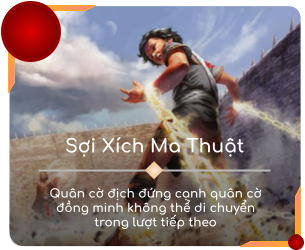
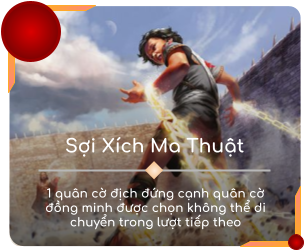
Update

Changed region(s): [[0.1475, 0.728, 0.8852, 0.924]]

diff --git a/CMC/card.py b/CMC/card.py
@@ -4,6 +4,7 @@ import pygame
 import CMC.effect as ef
 import CMC.cell as cell
 import CMC.init as init
+import CMC.chess as chess
 
 
 def drawText(surface, text, color, rect, font, bkg=None):
@@ -45,7 +46,7 @@ class Card:
     """
     Lớp "Bài phép"
     """
-    def __init__(self, name, cost, img, descibe = '', skillCard = '', selectedRequire = 0, effects = [], **options):
+    def __init__(self, name, cost, img, descibe = '', skillCard = '', selectedRequire = 0, effects = [], area=0, **options):
         """
         Hàm khởi tạo bài phép
         :param name: Tên bài phép (str)
@@ -66,6 +67,21 @@ class Card:
         self.__selected_require = selectedRequire
         self.__skillCard = skillCard
         self.__options = options
+        self.__area = area
+
+    def get_area(self):
+        """
+        Lấy tầm ảnh hưởng của phép
+        :return: Tầm ảnh hưởng (int)
+        """
+        return self.__area
+
+    def get_option(self):
+        """
+        Lấy các thông số khác của lá bài
+        :return: Các thông số khác (list(Any))
+        """
+        return self.__options
 
     def duplication(self):
         """
@@ -139,7 +155,7 @@ class Card:
         """
         return self.__selected_require
 
-    def play_card(self, nBoard, indexs, playTeam, histLog=False):
+    def play_card(self, nBoard, indexs=[], playTeam='w', histLog=False):
         """
         Sử dụng bài phép và kích hoạt kĩ năng bài tương ứng
         :param nBoard: Bàn cờ (board.Board)
@@ -147,16 +163,36 @@ class Card:
         :param playTeam: Đội đang trong lượt
         :return: Kết quả (str)
         """
-        def GrantEffects(effects, nBoard, indexs):
+        allMap = False
+        try:
+            allMap = self.__options['allMap']
+        except:
+            pass
+        AOE = False
+        try:
+            AOE = self.__options['AOE']
+        except:
+            pass
+        friendlyfire = False
+        try:
+            friendlyfire = self.__options['friendlyfire']
+        except:
+            pass
+        def GrantEffects(effects, nBoard, indexs, allChess = False):
             try:
                 index = indexs[0]
                 oBoard = nBoard.getoBoard()
-                nBoard.select_Chess(index, 3, playTeam, False)
-                for effect in effects:
-                    oBoard[(index[1], index[0])].add_effect(copy.copy(effect))
-                return 'Casted'
+                print(index)
+                result = nBoard.select_Chess(index, 3, playTeam, False, allChess=allChess)
+                if result[0]:
+                    for effect in effects:
+                        oBoard[(index[1], index[0])].add_effect(copy.copy(effect))
+                        nBoard.deseclect()
+                    return 'Casted'
+                else:
+                    return ef.STATUS[0]
             except:
-                return ef.STATUS[1]
+                return ef.STATUS[0]
 
         def ActiveEffects(effects, nBoard, indexs):
             phase = 3
@@ -174,20 +210,45 @@ class Card:
         def CastMagic(effects, nBoard, indexs):
             phase = 3
             result = []
-            AOE = False
-            friendlyfire = True
-            allMap = False
+            rBoard = nBoard.getrBoard()
+            oBoard = nBoard.getoBoard()
+
             if not allMap:
-                result.append(ef.Effect('PushChess', turns = 1, phase = 3, value = 1).active_effect(nBoard, [indexs[0]], phase, options = self.__options, playTeam = playTeam, histLog = histLog, enemy=friendlyfire))
+                result.append(ef.Effect('PushChess', turns = 1, phase = 3, value = self.__area).active_effect(nBoard, [indexs[0]], phase, options = self.__options, playTeam = playTeam, histLog = histLog, enemy= not friendlyfire))
+
             try:
                 if not AOE:
-                    result.append(GrantEffects(self.__effects, nBoard, [indexs[1]]))
+                    result.append(GrantEffects(self.__effects, nBoard, [indexs[1]], allChess = friendlyfire))
+                else:
+                    if indexs[0][0] < 2 or indexs[0][0] > 5:
+                        return [ef.STATUS[1]]
+                    for y in range(-(self.__area), self.__area + 1):
+                        for x in range(-(self.__area), self.__area + 1):
+                            if chess.on_board((indexs[0][1] + y, indexs[0][0] + x)):
+                                result.append(GrantEffects(self.__effects, nBoard, [(indexs[0][0] + x, indexs[0][1] + y)], allChess = friendlyfire))
+
             except:
                 pass
             if ef.STATUS[3] in result:
                 result[result.index(ef.STATUS[3])] = 'Casted'
             return result
 
+        if indexs == []:
+            rBoard = nBoard.getrBoard()
+            oBoard = nBoard.getoBoard()
+            if not allMap:
+                for i in range(8):
+                    for j in range(8):
+                        try:
+                            if oBoard[(j, i)].get_team() == playTeam:
+                                rBoard[i][j] += '@'
+                        except:
+                            pass
+            else:
+                for i in range(2, 6):
+                    for j in range(8):
+                        rBoard[i][j] += '@'
+            return []
 
         try:
             result = locals()[self.__skillCard](self.__effects, nBoard, indexs)

diff --git a/CMC/main.py b/CMC/main.py
@@ -260,13 +260,26 @@ def update_display():
     Cập nhập cửa sổ hiển thị
     :return: None
     """
-    # pygame.time.delay(10)
-    # WIN.unlock()
-    WIN.fill('white')
-    nboard.draw(WIN)
-    ncard.draw(WIN, init.font40, Players[turns % 2])
-    updateGUI()
-    pygame.display.update()
+    while not pause:
+        pygame.time.delay(10)
+        WIN.unlock()
+        try:
+            try:
+                area = Players[turns % 2].get_cards()[Players[turns % 2].get_picking()].get_area()
+            except:
+                area = 0
+            WIN.fill('white')
+            nboard.draw(WIN, phase, area)
+            ncard.draw(WIN, init.font40, Players[turns % 2])
+            updateGUI()
+            pygame.display.update()
+        except:
+            continue
+    # WIN.fill('white')
+    # nboard.draw(WIN)
+    # ncard.draw(WIN, init.font40, Players[turns % 2])
+    # updateGUI()
+    # pygame.display.update()
 
 def BOT_Turn():
     """
@@ -294,8 +307,11 @@ def main():
         tutorial()
     global pause, phase, turns, startTurnTime, timing, playingTeam, clicked, BOT_Thingking, redraw, required, selectedPos, selected
     pause = False
+    gui_thread = Thread(target=update_display)
+    gui_thread.setDaemon(True)
+    gui_thread.start()
     while True:
-        update_display()
+        # update_display()
         if phase == chess.PHASE['Start']:
             selected = False
             required = 0
@@ -379,6 +395,7 @@ def main():
                                     required = Players[turns % 2].pick_card(index)
                                     if required != -1:
                                         selected = True
+                                        Players[turns % 2].play_card(nboard)
                                     else:
                                         phase = chess.PHASE['Picking']
                                 else:
@@ -393,6 +410,11 @@ def main():
                             result = Players[turns%2].play_card(nboard, selectedPos + [index], histLog = True)
                             if 'Fail' not in result:
                                 selectedPos.append(index)
+                            else:
+                                Players[turns % 2].decelect()
+                                selectedPos = []
+                                phase = chess.PHASE['Picking']
+                                selected = False
                         else:
                             Players[turns%2].decelect()
                             selectedPos = []
@@ -464,7 +486,7 @@ def button(text, img, img_h, x, y, width, height, action = None, color = 'black'
     :return: None
     """
     global clicked
-    pygame.time.delay(5)
+    pygame.time.delay(10)
     img = pygame.transform.scale(img, (width, height))
     WIN.blit(img, (x, y))
     mouse = pygame.mouse.get_pos()
@@ -563,11 +585,14 @@ def end_game():
     pygame.quit()
     quit()
 
-def check_evolutions():
+def check_evolutions(type = "Queen"):
     """
     Kiểm tra thăng cấp cho quân "Chốt"
+    :param type: Kiểu quân cờ được thăng cấp
     :return: None
     """
+    global clicked
+    clicked = False
     def evolution(param):
         if param['team'] == 'w':
             direction = 'upwward'
@@ -583,6 +608,8 @@ def check_evolutions():
             try:
                 if object[1].get_type() == 'Pawn' and object[0][1] == 7*(object[1].get_direction()>0):
                     WIN.blit(pygame.transform.scale(init.listImage['GEI']['Darker'], (WinWidth, WinHeight)), (0, 0))
+                    if Players[turns%2].get_name() == 'BOT':
+                        evolution({type:'Queen', team:object[1].get_team(), oBoard:oBoard, index:object[0]})
                     while True:
                         for event in pygame.event.get():
                             if event.type == pygame.QUIT:

diff --git a/CMC/board.py b/CMC/board.py
@@ -192,7 +192,7 @@ class Board:
         """
         return self.__y
 
-    def draw(self, win):
+    def draw(self, win, phase = 0, area = 1):
         """
         Hàm in các hình ảnh lên cửa sổ hiển thị
         :param win: Cửa sổ hiển thị (pygame.display)
@@ -204,12 +204,13 @@ class Board:
             for col in range(8):
                 if (row+col) % 2 == 1:
                     win.blit(self.__GEI['Darker'] ,(self.__CellLayer[row][col].get_x(), self.__CellLayer[row][col].get_y()))
-                # if self.__CellLayer[row][col].is_mouse_hovering(pygame.mouse.get_pos()):
-                #     win.blit(self.__GEI['Hover'], (self.__CellLayer[row][col].get_x(), self.__CellLayer[row][col].get_y()))
                 if 'x' in self.__readableMap[col][row]:
                     win.blit(self.__GEI['Move'] ,(self.__CellLayer[row][col].get_x(), self.__CellLayer[row][col].get_y()))
                 elif ':' in (self.__readableMap[col][row]):
                     win.blit(self.__GEI['Choice'],
+                             (self.__CellLayer[row][col].get_x(), self.__CellLayer[row][col].get_y()))
+                elif '@' in (self.__readableMap[col][row]):
+                    win.blit(self.__GEI['Choice_'],
                              (self.__CellLayer[row][col].get_x(), self.__CellLayer[row][col].get_y()))
                 # elif '#' in (self.__readableMap[col][row]):
                 #     win.blit(self.__GEI['Hover'],
@@ -217,6 +218,11 @@ class Board:
                 if not self.__OjectLayer[(row, col)] == None:
                     self.__OjectLayer[(row, col)].draw(win, self.__CellLayer[row][col].get_pos(), interval)
                 self.__CellLayer[row][col].draw(win)
+                if self.__CellLayer[row][col].is_mouse_hovering(pygame.mouse.get_pos()) and phase == chess.PHASE['Cast']:
+                    img = pygame.transform.scale(self.__GEI['Hover'], ((area*2 + 1)*100, (area*2 + 1)*100))
+                    rect = img.get_rect()
+                    rect.center = (self.__CellLayer[row][col].get_x() + 50, self.__CellLayer[row][col].get_y() + 50)
+                    win.blit(img, rect)
 
     def printMap(self):
         """
@@ -266,7 +272,7 @@ class Board:
         except:
             return False
 
-    def select_Chess(self, index, phase, playingTeam = 'b', set_move = True):
+    def select_Chess(self, index, phase, playingTeam = 'b', set_move = True, allChess = False):
         """
         Chọn quân cờ
         :param index: Tọa độ trên bàn cờ (tuple(int, int)
@@ -277,7 +283,7 @@ class Board:
         """
         y, x = index
         moves = []
-        if self.check_Team((x, y), playingTeam):
+        if self.check_Team((x, y), playingTeam) or allChess:
             # print("Team turn:", playingTeam)
             result = self.__OjectLayer[(x, y)].active_effects(self, index, phase)
             if ef.STATUS[1] in result:

diff --git a/CMC/init.py b/CMC/init.py
@@ -60,6 +60,7 @@ listImage = {
         'Darker':pygame.image.load('assets/img/GEI/darker.png'),
         'Move':pygame.image.load('assets/img/GEI/move.png'),
         'Choice':pygame.image.load('assets/img/GEI/choice.png'),
+        'Choice_': pygame.image.load('assets/img/GEI/choice_white.png'),
         'Hover':pygame.image.load('assets/img/GEI/choice_magic.png'),
         'Card_Hover':pygame.image.load('assets/img/GEI/card_hover.png'),
         'Card_Picking':pygame.image.load('assets/img/GEI/picking_card.png'),
@@ -107,6 +108,7 @@ listImage = {
         '08': pygame.image.load('assets/img/Card/08.png'),
         '09': pygame.image.load('assets/img/Card/09.png'),
         '10': pygame.image.load('assets/img/Card/10.png'),
+        '11': pygame.image.load('assets/img/Card/11.png'),
     },
     'Desert': {
         'Normal':pygame.image.load('assets/img/Environment/desert_normal.png'),
@@ -187,7 +189,9 @@ DECK = [
     Card('Hoán Đổi Không Gian', 5, listImage['Cards']['09'], 'Đổi vị trí của 2 quân cờ đứng cách nhau 1 ô',
          'ActiveEffects', 2, [ef.Effect('PushChess', turns=1, phase=3, value=2)], directions=['Around'], killable=False, swap=True),
     Card('Sợi Xích Ma Thuật', 4, listImage['Cards']['10'], '1 quân cờ địch đững cạnh đồng minh không thể di chuyển trong lượt tiếp theo',
-         'CastMagic', 2, [ef.Effect('IncreaseSpeed', turns=2, phase=2, value=-10)], directions=['Around'], killable=False, swap=True),
+         'CastMagic', 2, [ef.Effect('IncreaseSpeed', turns=2, phase=2, value=-10)], directions=['Around'], killable=False, swap=True, area = 1),
+    Card('Vụ Nổ Băng Giá', 5, listImage['Cards']['11'], 'Toàn bộ quân cờ nằm trong khu vực 3x3 được chọn không thể di chuyển trong 2 lượt tiếp theo',
+         'CastMagic', 1, [ef.Effect('IncreaseSpeed', turns=3, phase=2, value=-10)], directions=['Around'], killable=False, swap=True, allMap = True, area = 1, AOE=True, friendlyfire = True),
 ]
 
 ENVIRONMENT = {

diff --git a/CMC/player.py b/CMC/player.py
@@ -106,7 +106,7 @@ class Player:
         """
         self.__picking = None
 
-    def play_card(self, nBoard, indexs, histLog = False):
+    def play_card(self, nBoard, indexs=[], histLog = False):
         """
         Sử dụng bài phép
         :param nBoard: Bàn cờ (board.Board)
@@ -130,7 +130,7 @@ class Player:
                         init.HistoryLog.append(' => {} {}: {}{} -> {}{}'.format(init.ENCODE[nBoard.getoBoard()[(index1[1], index1[0])].get_type()],
                                                                                 init.ENCODE[nBoard.getoBoard()[(index1[1], index1[0])].get_team()],
                                                                                 8 - index0[0], chr(65 + index0[1]), 8 - index1[0], chr(65 + index1[1])))
-                    else:
+                    elif card:
                         init.HistoryLog.pop(0)
                         init.HistoryLog.append(' => {} {}: {}{}'.format(init.ENCODE[nBoard.getoBoard()[(index0[1], index0[0])].get_type()],
                                                                         init.ENCODE[nBoard.getoBoard()[(index0[1], index0[0])].get_team()],

diff --git a/CMC/effect.py b/CMC/effect.py
@@ -179,6 +179,11 @@ class Effect:
                 try:
                     if not options['enemy']:
                         target = [options['playTeam']]
+                    else:
+                        if options['playTeam'] == 'b':
+                            target = ['w']
+                        else:
+                            target = ['b']
                 except:
                     target = ['b', 'w']
 
